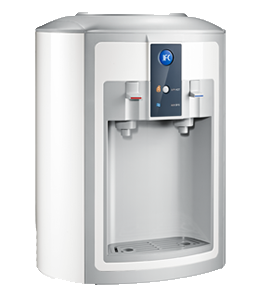
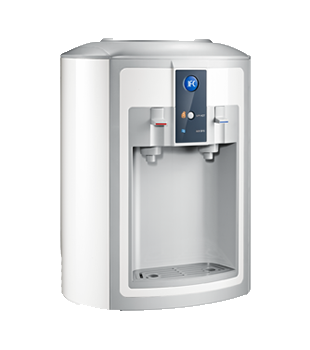
Home page, product previews changed to original size, +preload images.

diff --git a/catalog/view/theme/jfchealth/css/common.css b/catalog/view/theme/jfchealth/css/common.css
@@ -75,8 +75,8 @@ ul
 #product-image
 {
     position:absolute;
-    margin-top:110px;
-    margin-left:308px;
+    margin-top:85px;
+    margin-left:280px;
 }
 #product-section
 {

diff --git a/catalog/controller/common/home.php b/catalog/controller/common/home.php
@@ -21,7 +21,7 @@ class ControllerCommonHome extends Controller {
             $this->data['product_urls'][] = $this->url->link('product/product');
             $this->data['product_ids'][] = $product['product_id'];
             $this->data['product_cids'][] = $product['category_id'];
-            $this->data['product_images'][] = $this->model_tool_image->resize($product['filename'], 260, 297);//DIR_IMAGE.$product['image'];
+            $this->data['product_images'][] = DIR_IMAGE.$product['filename'];//$this->model_tool_image->resize($product['filename'], 260, 297);
             $this->data['product_names'][] = $product['name'];
             $this->data['product_description'][] = substr(html_entity_decode($product['description'], ENT_QUOTES, 'UTF-8'),0,100);
         }

diff --git a/catalog/controller/common/header.php b/catalog/controller/common/header.php
@@ -144,6 +144,14 @@ class ControllerCommonHeader extends Controller {
 			'module/cart'
 		);
 
+		$this->load->model('catalog/product');
+
+        $products = $this->model_catalog_product->getProductInfoList();
+        $this->data['product_images'] = array();
+        foreach ($products as $product) {
+            $this->data['product_images'][] = DIR_IMAGE.$product['filename'];
+        }
+
         $this->data['dir_image'] = 'catalog/view/theme/'.$this->config->get('config_template').'/images/';
         $this->data['dir_image_lang'] = 'catalog/view/theme/'.$this->config->get('config_template').'/images/'.$this->language->get('code').'/';
         $this->data['dir_pdf'] = 'pdf/';
